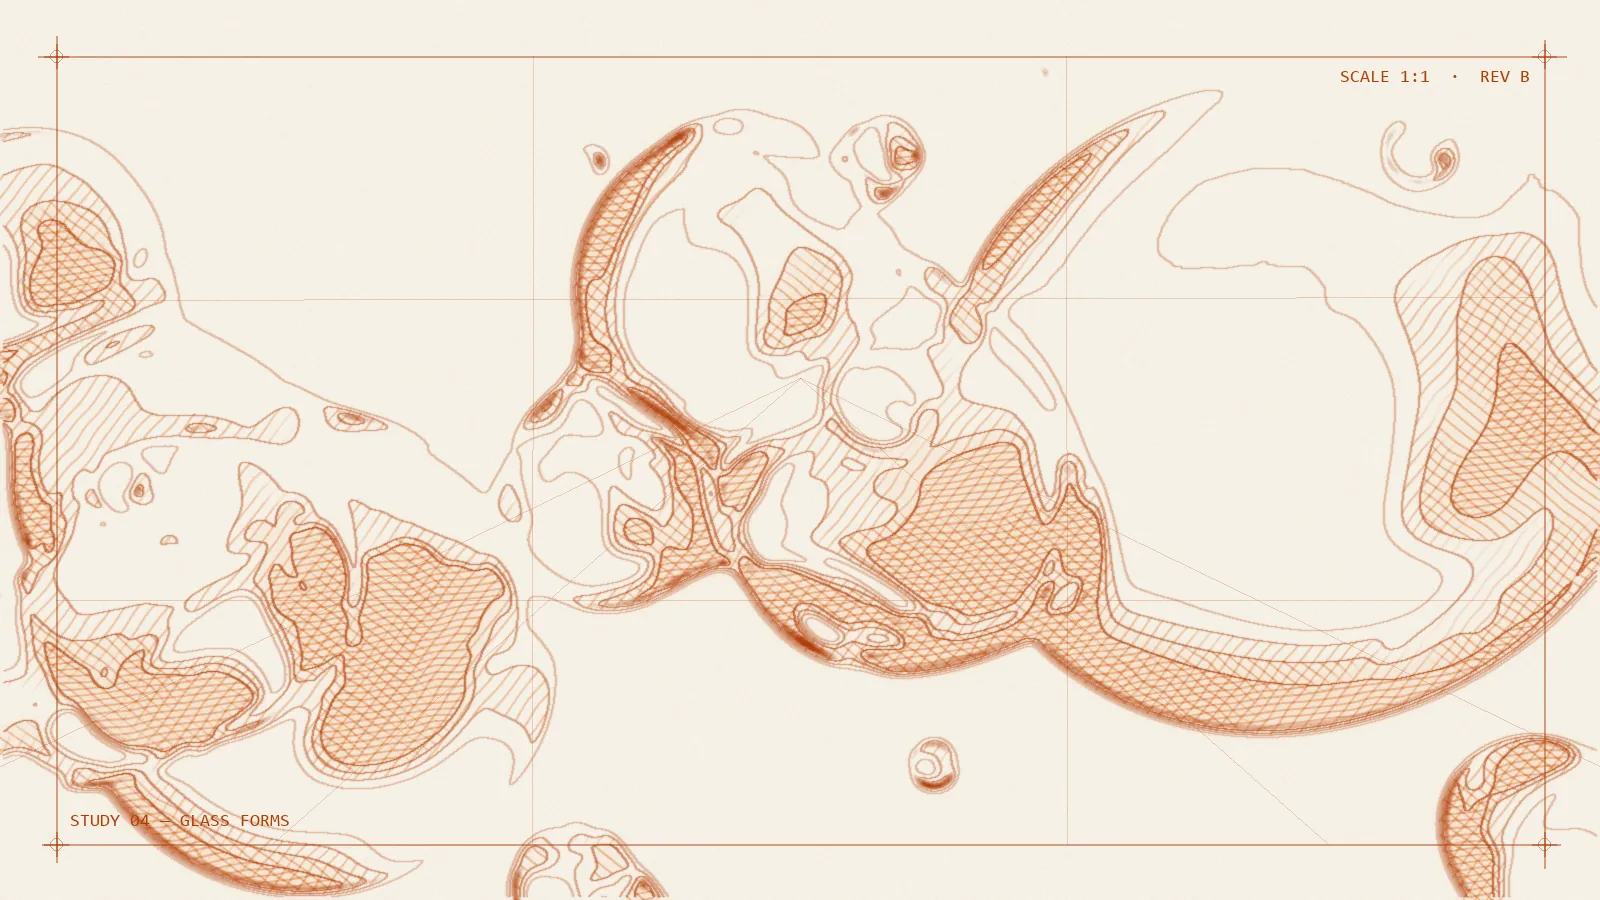
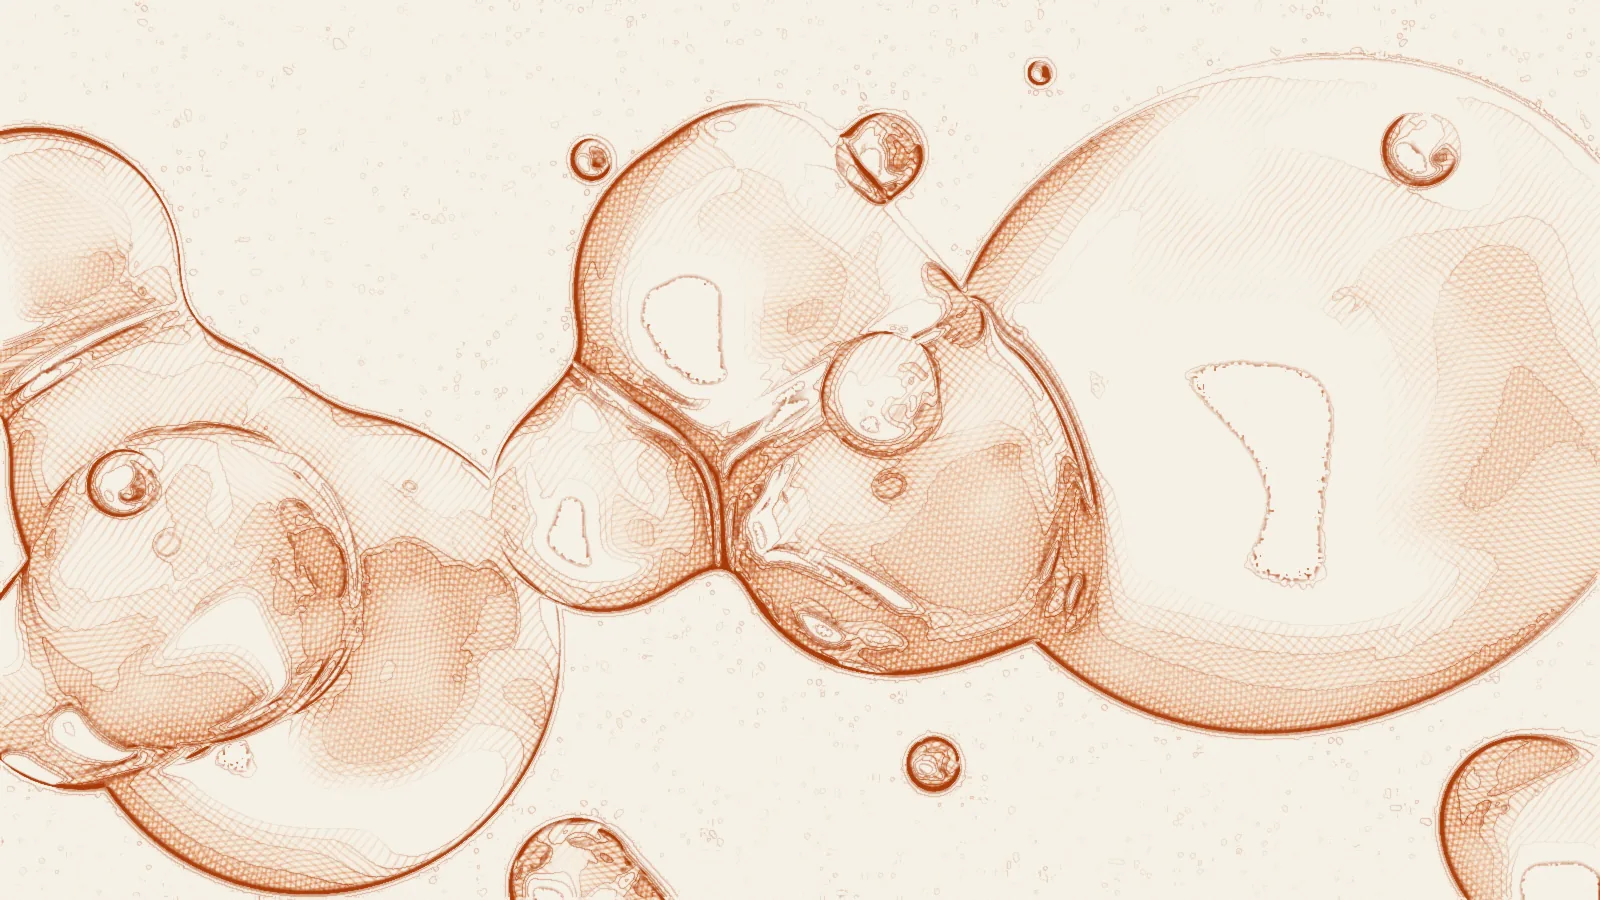
Render more detailed concept sketches without labels or frame marks
Finer pen lines at two scales, seven tone bands, texture-gated hatching so smooth sky and fog stay clean. Removes the study labels, scale text, frame and guide lines. Slightly more opaque glass to keep text contrast over the denser sketches.

diff --git a/assets/css/site.css b/assets/css/site.css
@@ -53,7 +53,7 @@ p{margin:0 0 1em}
 
 /* ---------- The glossy glass pane ---------- */
 .pane{position:relative;border-radius:var(--radius);padding:clamp(24px,5vw,68px);
-  background:linear-gradient(165deg,rgba(255,255,255,.60) 0%,rgba(255,255,255,.30) 46%,rgba(255,248,240,.46) 100%);
+  background:linear-gradient(165deg,rgba(255,255,255,.68) 0%,rgba(255,255,255,.40) 46%,rgba(255,248,240,.54) 100%);
   border:1px solid rgba(255,255,255,.9);
   box-shadow:
     inset 0 1.5px 0 rgba(255,255,255,1),

diff --git a/tools/sketch.py b/tools/sketch.py
@@ -1,112 +1,99 @@
-# Renders the orange concept-sketch backgrounds. Run: python tools/sketch.py assets/img/src assets/img
+# Renders the orange concept-sketch backgrounds.
+# Run: python tools/sketch.py assets/img/src assets/img
 import sys, os, math
 import numpy as np
-from PIL import Image, ImageFilter, ImageDraw, ImageFont
+from PIL import Image, ImageFilter, ImageOps
 
 SRC, OUT = sys.argv[1], sys.argv[2]
 os.makedirs(OUT, exist_ok=True)
 PAPER = np.array([246, 241, 230], float)
-INK   = np.array([176, 62, 10], float)    # deep rich orange
-INK2  = np.array([214, 96, 22], float)    # brighter orange for hatching
+INK   = np.array([168, 58, 9], float)     # deep rich orange for line work
+INK2  = np.array([208, 92, 22], float)    # brighter orange for hatching
 WASH  = np.array([240, 150, 80], float)   # marker wash
-rng = np.random.default_rng(7)
+
+def to_img(a):
+    return Image.fromarray(np.clip(a * 255, 0, 255).astype(np.uint8))
 
 def blur(a, r):
-    im = Image.fromarray(np.clip(a*255,0,255).astype(np.uint8))
-    return np.asarray(im.filter(ImageFilter.GaussianBlur(r)), float)/255
+    return np.asarray(to_img(a).filter(ImageFilter.GaussianBlur(r)), float) / 255
 
-def hatch(h, w, angle, spacing, width, wobble=1.2, seed=0):
+def field(h, w, seed, cell=24, amp=6):
+    g = np.random.default_rng(seed).standard_normal((h // cell + 2, w // cell + 2))
+    im = to_img((g + 3) / 6).resize((w, h), Image.BICUBIC)
+    return (np.asarray(im, float) / 255 - .5) * amp
+
+def hatch(h, w, angle, spacing, width, seed):
     yy, xx = np.mgrid[0:h, 0:w].astype(float)
     t = math.radians(angle)
-    r = rng_noise(h, w, seed) * wobble
-    d = (xx*math.cos(t) + yy*math.sin(t) + r) % spacing
+    d = (xx * math.cos(t) + yy * math.sin(t) + field(h, w, seed) * 1.3) % spacing
     d = np.minimum(d, spacing - d)
-    return np.clip(1 - (d - width/2), 0, 1)
+    return np.clip(1 - (d - width / 2), 0, 1)
 
-def rng_noise(h, w, seed):
-    g = np.random.default_rng(seed).standard_normal((h//24+2, w//24+2))
-    im = Image.fromarray(((g+3)/6*255).clip(0,255).astype(np.uint8)).resize((w, h), Image.BICUBIC)
-    return (np.asarray(im, float)/255 - .5) * 6
-
-def breakup(h, w, seed, scale=60, keep=.35):
-    g = np.random.default_rng(seed).random((h//scale+2, w//scale+2))
-    im = Image.fromarray((g*255).astype(np.uint8)).resize((w, h), Image.BICUBIC)
-    m = np.asarray(im, float)/255
+def breakup(h, w, seed, scale=70, keep=.25):
+    m = np.asarray(to_img(np.random.default_rng(seed).random((h // scale + 2, w // scale + 2))).resize((w, h), Image.BICUBIC), float) / 255
     return np.clip((m - keep) * 4 + .5, 0, 1)
 
-def sketch(path, name, label, work=1600):
+def sketch(path, name, fq=.90, bq=.94, sm=(5, 1.6), work=1600):
     im = Image.open(path).convert('L')
     W, H = im.size
-    s = work / max(W, H) if H > W else work / W
-    im = im.resize((round(W*s), round(H*s)), Image.LANCZOS)
-    L = np.asarray(im, float)/255
+    s = work / max(W, H)
+    im = im.resize((round(W * s), round(H * s)), Image.LANCZOS)
+    # lift local contrast so low-contrast photos (fog, haze) still read
+    eq = ImageOps.equalize(im)
+    L = (np.asarray(im, float) * .45 + np.asarray(eq, float) * .55) / 255
     h, w = L.shape
-    lo, hi = np.percentile(L, 2), np.percentile(L, 98)
-    L = np.clip((L-lo)/(hi-lo+1e-6), 0, 1)
-    sm = Image.fromarray((L*255).astype(np.uint8)).filter(ImageFilter.MedianFilter(13)).filter(ImageFilter.GaussianBlur(4.5))
-    T = np.asarray(sm, float)/255
-    th = [.26, .42, .58, .74]
-    lev = np.digitize(T, th)
+
+    # tone map: lightly smoothed, split into seven bands by quantile
+    T = np.asarray(to_img(L).filter(ImageFilter.MedianFilter(sm[0])).filter(ImageFilter.GaussianBlur(sm[1])), float) / 255
+    th = np.quantile(T, [.10, .22, .35, .48, .62, .76])
+    lev = np.digitize(T, th)               # 0 = darkest ... 6 = lightest
+
+    # texture mask: where the photo has real structure (not smooth sky, fog or haze)
+    tex = blur(np.abs(L - blur(L, 2.0)), 7)
+    tex = np.clip((tex - np.quantile(tex, .30)) / (np.quantile(tex, .80) - np.quantile(tex, .30) + 1e-6), 0, 1)
+    tex = blur(tex, 10)
+
+    # contour lines between tone bands
     e = np.zeros_like(T)
-    for dy, dx in ((0,1),(1,0),(1,1),(1,-1)):
-        sh = np.roll(np.roll(lev, dy, 0), dx, 1)
-        e = np.maximum(e, (sh != lev).astype(float))
-    e[:3,:]=0; e[-3:,:]=0; e[:,:3]=0; e[:,-3:]=0
-    iso = np.clip(blur(e, .7)*1.6, 0, 1)
-    iso *= np.clip(1.15 - T, .35, 1)
-    G1, G2 = blur(T, 1.5), blur(T, 4.0)
-    sil = blur(np.clip((-(G1 - G2) - .035) * 22, 0, 1), .6)
-    b = breakup(h, w, 11, scale=90, keep=.2)
-    h1 = hatch(h, w, 38, 11, 1.2, seed=1) * (lev <= 2) * b
-    h2 = hatch(h, w, -52, 10, 1.1, seed=2) * (lev <= 1) * breakup(h, w, 12, scale=90, keep=.25)
-    h3 = hatch(h, w, 82, 7, 1.0, seed=3) * (lev == 0)
-    hat = blur(np.clip(h1*.42 + h2*.5 + h3*.5, 0, 1), .4)
-    wash = blur(np.where(lev == 0, .16, np.where(lev == 1, .08, 0.0)), 8)
-    lines = iso*.75
-    contour = sil
-    grain = (np.random.default_rng(5).standard_normal((h, w)) * .025)
-    out = PAPER[None,None,:] * np.ones((h, w, 1))
-    out = out*(1-wash[...,None]) + WASH*wash[...,None]
-    out = out*(1-hat[...,None]*.7) + INK2*(hat[...,None]*.7)
-    ink = np.clip(np.maximum(lines*.9, contour), 0, 1)
-    out = out*(1-ink[...,None]) + INK*ink[...,None]
-    out = np.clip(out + grain[...,None]*255*.3, 0, 255).astype(np.uint8)
+    for dy, dx in ((0, 1), (1, 0)):
+        e = np.maximum(e, (np.roll(np.roll(lev, dy, 0), dx, 1) != lev).astype(float))
+    e[:3, :] = e[-3:, :] = 0; e[:, :3] = e[:, -3:] = 0
+    iso = np.clip(blur(e, .55) * 1.5, 0, 1) * np.clip(1.1 - T, .3, .9) * tex
+
+    # fine pen detail: thin dark-line response at two scales
+    g1, g2 = blur(L, .8), blur(L, 1.8)
+    d = g2 - g1
+    fine = np.clip((d - np.quantile(d, fq)) / (np.quantile(d, .995) - np.quantile(d, fq) + 1e-6), 0, 1)
+    G1, G2 = blur(L, 1.6), blur(L, 4.0)
+    D = G2 - G1
+    bold = np.clip((D - np.quantile(D, bq)) / (np.quantile(D, .997) - np.quantile(D, bq) + 1e-6), 0, 1)
+    pen = np.clip(fine * .75 + bold * .9, 0, 1)
+    pen = blur(pen, .35) * (.35 + .65 * tex)
+
+    # hatching by tone band
+    h1 = hatch(h, w, 38, 8, 1.1, 1) * (lev <= 3) * breakup(h, w, 11, keep=.18)
+    h2 = hatch(h, w, -52, 7, 1.0, 2) * (lev <= 2) * breakup(h, w, 12, keep=.22)
+    h3 = hatch(h, w, 82, 6, 1.0, 3) * (lev <= 1)
+    h4 = hatch(h, w, 8, 5, .9, 4) * (lev == 0)
+    hat = blur(np.clip(h1 * .38 + h2 * .45 + h3 * .5 + h4 * .5, 0, 1), .35) * (.15 + .85 * tex)
+    wash = blur(np.select([lev == 0, lev == 1, lev == 2], [.18, .11, .05], 0.0), 6) * (.3 + .7 * tex)
+
+    grain = np.random.default_rng(5).standard_normal((h, w)) * .02
+    out = PAPER[None, None, :] * np.ones((h, w, 1))
+    out = out * (1 - wash[..., None]) + WASH * wash[..., None]
+    out = out * (1 - hat[..., None] * .7) + INK2 * (hat[..., None] * .7)
+    ink = np.clip(np.maximum(iso * .7, pen), 0, 1)
+    out = out * (1 - ink[..., None]) + INK * ink[..., None]
+    out = np.clip(out + grain[..., None] * 255 * .3, 0, 255).astype(np.uint8)
     img = Image.fromarray(out, 'RGB')
-    # concept-sheet furniture: construction lines, frame, corner marks, label
-    d = ImageDraw.Draw(img, 'RGBA')
-    ink_a = (176, 62, 10, 120)
-    faint = (176, 62, 10, 55)
-    m = round(w*.035)
-    # loose frame with overshoot
-    for (x0,y0,x1,y1) in [(m-18, m, w-m+22, m), (m-14, h-m, w-m+16, h-m), (m, m-20, m, h-m+18), (w-m, m-16, w-m, h-m+24)]:
-        d.line([(x0,y0),(x1,y1)], fill=ink_a, width=2)
-    # horizon / thirds construction lines
-    for f in (1/3, 2/3):
-        d.line([(m, h*f), (w-m, h*f + rng.uniform(-6,6))], fill=faint, width=1)
-        d.line([(w*f, m), (w*f + rng.uniform(-6,6), h-m)], fill=faint, width=1)
-    # vanishing guides from a point
-    vx, vy = w*.5, h*.42
-    for a in (-1, -.55, .55, 1):
-        d.line([(vx, vy), (vx + a*w*.6, h-m)], fill=faint, width=1)
-    # registration crosses
-    for (cx, cy) in [(m, m), (w-m, m), (m, h-m), (w-m, h-m)]:
-        d.line([(cx-12, cy), (cx+12, cy)], fill=ink_a, width=2)
-        d.line([(cx, cy-12), (cx, cy+12)], fill=ink_a, width=2)
-        d.ellipse([cx-6, cy-6, cx+6, cy+6], outline=ink_a, width=1)
-    try:
-        f = ImageFont.truetype('C:/Windows/Fonts/consola.ttf', max(14, round(w*.011)))
-    except Exception:
-        f = ImageFont.load_default()
-    d.text((m+14, h-m-14-f.size), label, font=f, fill=(176,62,10,170))
-    d.text((w-m-14-f.getlength('SCALE 1:1  ·  REV B'), m+12), 'SCALE 1:1  ·  REV B', font=f, fill=(176,62,10,150))
+
     sizes = [1600, 1000, 600] if w >= h else [1000, 600]
     for S in sizes:
         r = S / max(w, h)
-        img.resize((round(w*r), round(h*r)), Image.LANCZOS).save(f'{OUT}/{name}-sketch-{S}.webp', quality=80, method=6)
-    pass
+        img.resize((round(w * r), round(h * r)), Image.LANCZOS).save(f'{OUT}/{name}-sketch-{S}.webp', quality=82, method=6)
 
-jobs = [('1','peaks','STUDY 01 — RIDGELINE'), ('2','fogpeak','STUDY 02 — SUMMIT IN FOG'),
-        ('3','mirror','STUDY 03 — REFLECTION'), ('4','glass','STUDY 04 — GLASS FORMS'), ('5','wall','STUDY 05 — LIMESTONE')]
-for src, name, label in jobs:
-    sketch(f'{SRC}/{src}.jpg', name, label)
+# fq/bq: how selective the fine and bold pen lines are (higher = fewer lines)
+for src, name, fq, bq in [('1', 'peaks', .90, .94), ('2', 'fogpeak', .90, .94), ('3', 'mirror', .90, .94),
+                          ('4', 'glass', .90, .94), ('5', 'wall', .955, .965)]:
+    sketch(f'{SRC}/{src}.jpg', name, fq, bq, (11, 3.5) if name == 'wall' else (5, 1.6))
     print('done', name)
